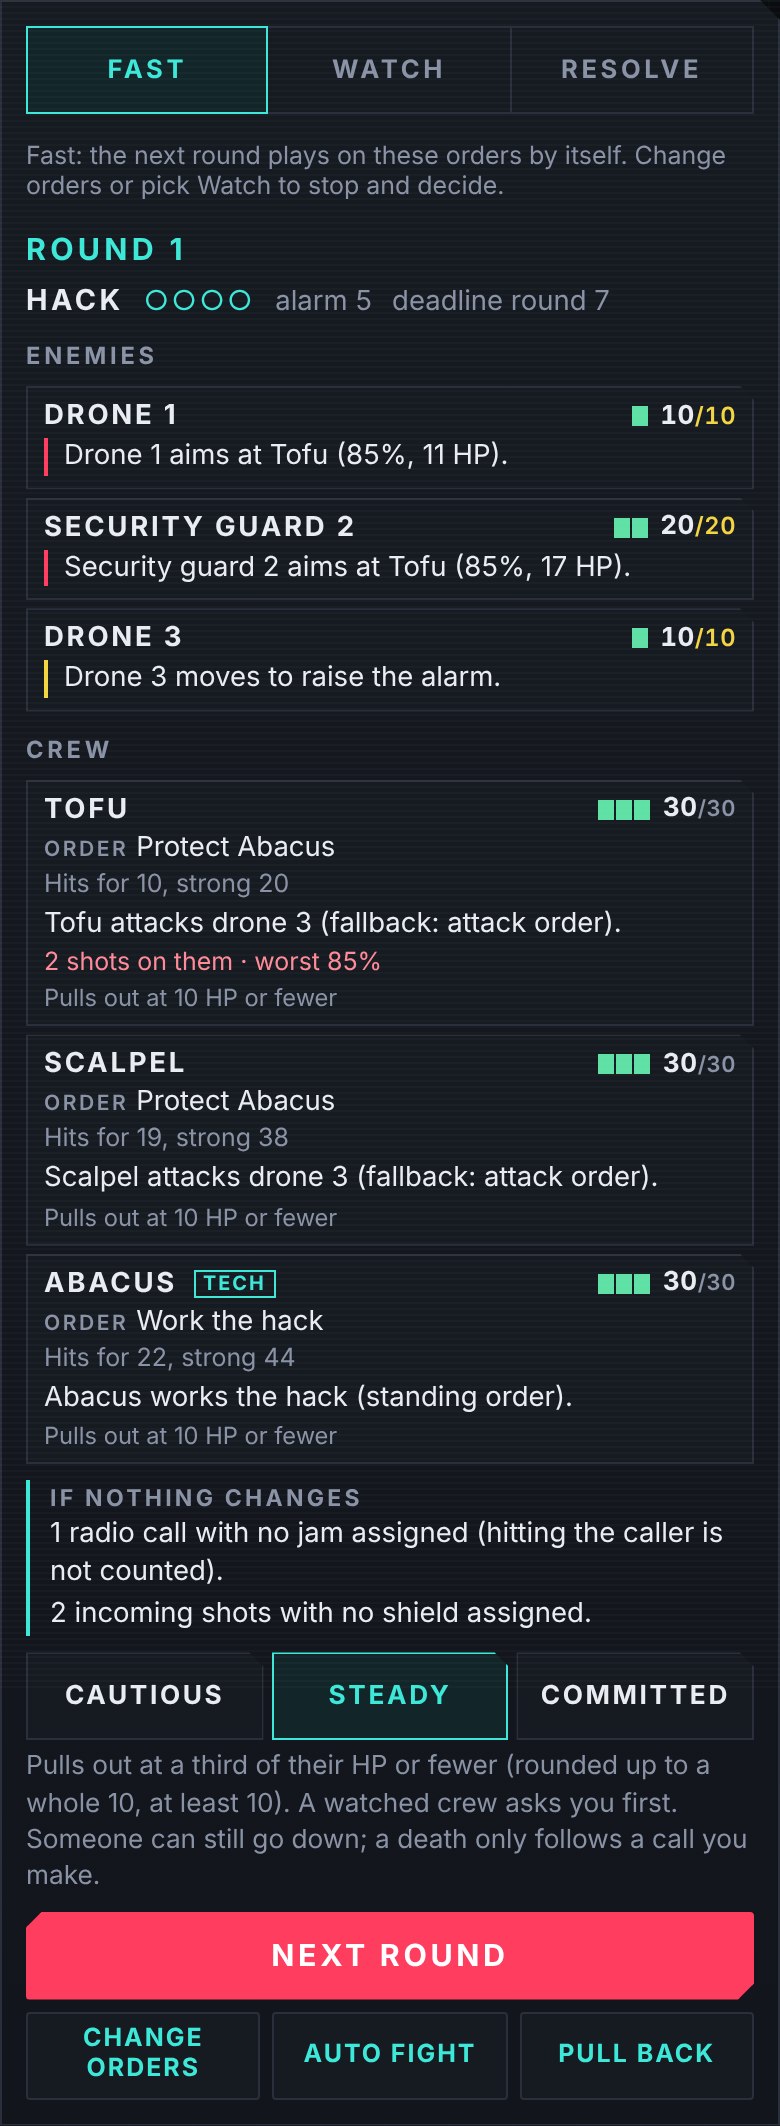
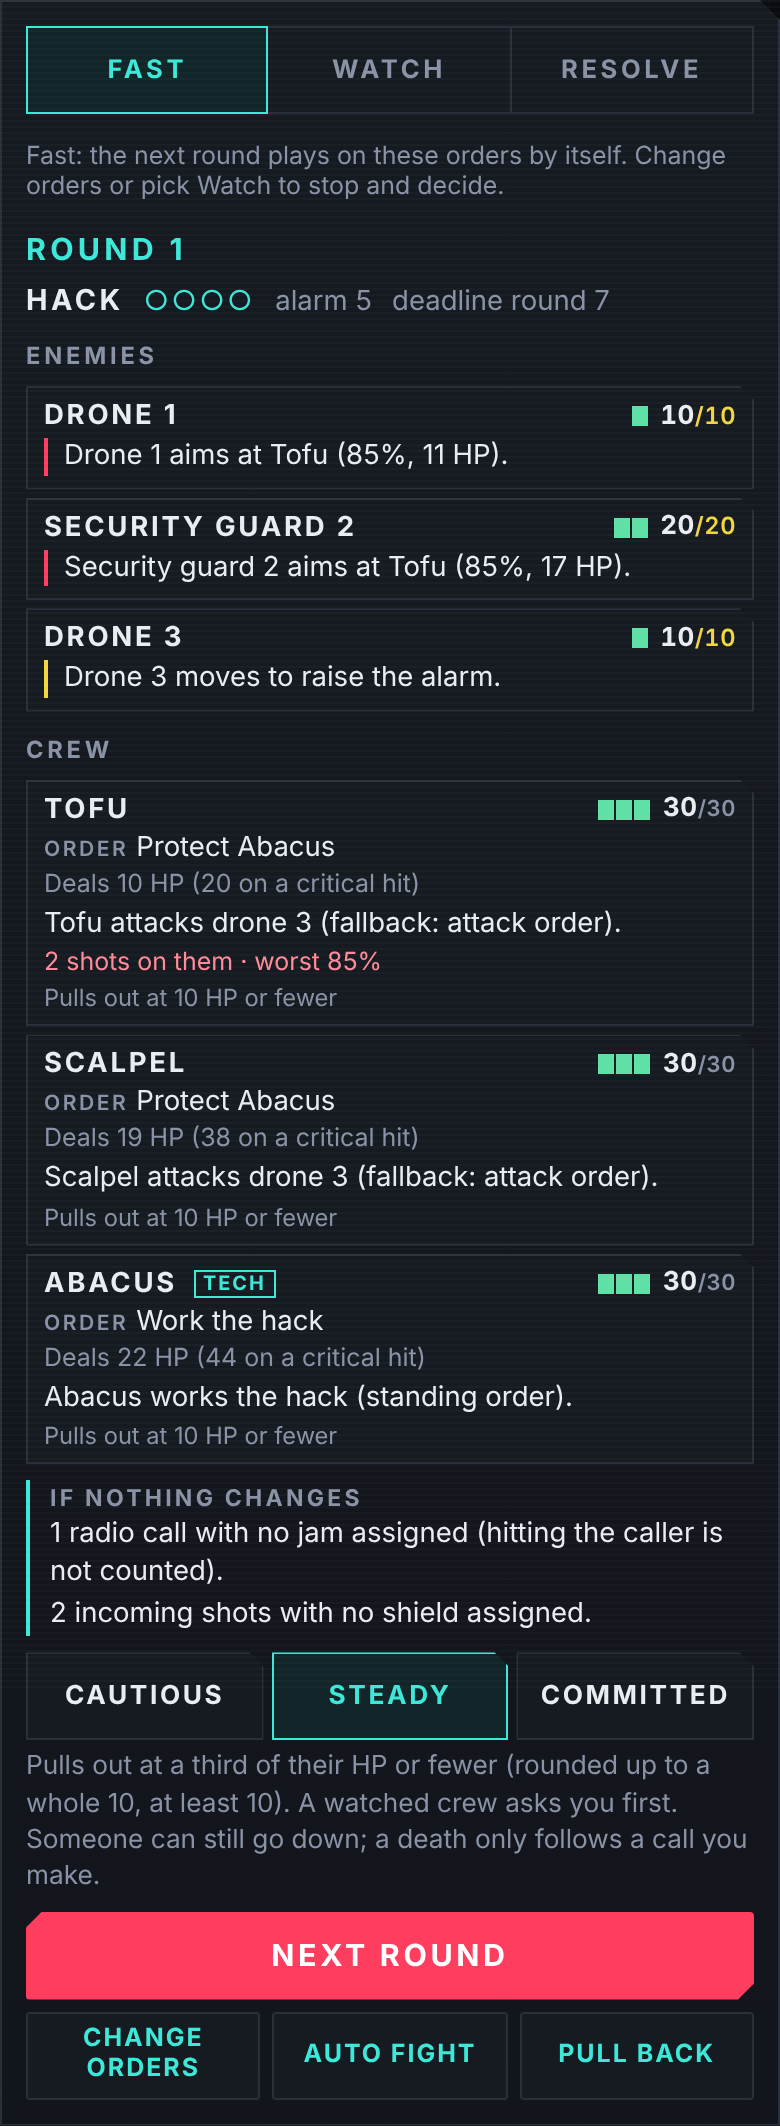
Retake the fight screenshot with the new wording; handoff for armour soak (step 2)

diff --git a/HANDOFF.md b/HANDOFF.md
@@ -16,7 +16,7 @@ The agreed order (owner, 2026-11-16): **the save fix (done, #185), then builds, 
 
 1. **No unattended chunk is queued** (the purity pass is merged, #199: `drafts/HANDOFF-purity-pass.md`). **Waiting on the owner (do not decide for them):** the way out's injury cost (the medic's roll is not the limit; options 1 and 2 in the chat of 2026-11-17: any healer counts, or a downed medic is steadied; or lighter injuries), `FIGHT.wayOutShare` (0.5, the agreed default was 1), the Contagion/Vector trade-off (Contagion is now better in a crowd), the planning read's "protect needs a Ricochet carrier" line (left out), the wording drafts (`drafts/writing-tasks.md`, and the visual pass's three stage texts in `data/fightText.js`: `stage.jammed`, `stage.jamFail`, `stage.alarm`), and whether drones count as armoured. **For the playtest's eyes:** the visual pass's effects in a real Contagion or hack fight at Watch speed (its captures were forged; `drafts/HANDOFF-visual-pass.md` top). **If the board feels slow in the playtest:** what is left of the speed pass is at the top of `drafts/HANDOFF-speed-pass.md`; Today is the slowest tab to draw (`drafts/NOTE-render-cost-2026-11-18.md`). Also open: more pieces and recruits arriving with a piece (need wording and balance calls), an "on my call" switch (parked), tune shots that miss too often, move kidnap to Engine 2.
 2. **Reconcile medical, piloting and leadership with the build frame:** drafted (2026-11-18) in `drafts/RECONCILE-medical-piloting-leadership.md`, with six questions for the owner at its end. Superseded in part by `drafts/PROPOSAL-runner-shaping.md` (owner, 2026-11-18): all abilities in one menu, gated by stats; step 1, `core/abilities.js`, is built. Owner's calls made 2026-11-18 (nudge, open menu with gates, specialisations as entries, earned traits hidden); still open: milestones, caps, the menu's look.
-2b. **Engine 2 in HP:** step 1 done 2026-11-18 (x10, no behaviour change, save v77; `docs/BATTLES.md` top). Step 2, the HP display, done the same day (numbers beside the bars, floating damage; `docs/screenshots/2026-11-18-hp-display`). Hit variance done the same day (now 15% of the hit, `FIGHT.hitSpreadShare`; owner kept it, 2026-11-18; watch in the playtest whether "hit for 8, left on 2" feels bad). **A weapon sets hit size: built 2026-11-18** (save v78; `drafts/PROPOSAL-gear-hit-size.md`, `docs/BATTLES.md` "Hit size"; a spare sidearm instead of scrap a quarter of the time nothing drops). **Enemy toughness step 1 built 2026-11-18** (save v79: +5 HP at threat 4 and at threat 5 (was +10 at 5; halved 2026-11-19); `drafts/PROPOSAL-enemy-toughness.md`, `docs/BATTLES.md` "Enemy toughness"); **next in it: step 2, runner armour as a flat soak (about 3 HP a point), its own sim pair, then enemy shot growth only if needed. Also from `drafts/HANDOFF-enemy-toughness.md`** (part A, the enemy toughness proposal, on Opus; part B, show the hit on the weapon card and fight screen, on Sonnet; both need the owner's answers or wording), then the build vocabulary's generic trigger step (`drafts/PROPOSAL-build-vocabulary.md`).
+2b. **Engine 2 in HP:** step 1 done 2026-11-18 (x10, no behaviour change, save v77; `docs/BATTLES.md` top). Step 2, the HP display, done the same day (numbers beside the bars, floating damage; `docs/screenshots/2026-11-18-hp-display`). Hit variance done the same day (now 15% of the hit, `FIGHT.hitSpreadShare`; owner kept it, 2026-11-18; watch in the playtest whether "hit for 8, left on 2" feels bad). **A weapon sets hit size: built 2026-11-18** (save v78; `drafts/PROPOSAL-gear-hit-size.md`, `docs/BATTLES.md` "Hit size"; a spare sidearm instead of scrap a quarter of the time nothing drops). **Enemy toughness step 1 built 2026-11-18** (save v79: +5 HP at threat 4 and at threat 5 (was +10 at 5; halved 2026-11-19); `drafts/PROPOSAL-enemy-toughness.md`, `docs/BATTLES.md` "Enemy toughness"); **next in it: step 2, runner armour as a flat soak (about 3 HP a point), its own sim pair, then enemy shot growth only if needed: `drafts/HANDOFF-armour-soak.md`. Also from `drafts/HANDOFF-enemy-toughness.md`** (part A, the enemy toughness proposal, on Opus; part B, show the hit on the weapon card and fight screen, on Sonnet; both need the owner's answers or wording), then the build vocabulary's generic trigger step (`drafts/PROPOSAL-build-vocabulary.md`).
 3. **The playtest** after 3-ii-a (`drafts/PLAN-battle-slices.md` "After the slices"), on the fight the owner wants.
 4. **Parked until then:** the other tongs' E4 (`drafts/PROPOSAL-tong-depth.md`), battle slice 4 (left behind, rescue, ransom), the iOS wrapper (`PLAN-IOS.md`; review findings 2-4) and the rest of `drafts/REVIEW-2026-11-13.md`, the locked districts, everything under "Parked" in the archive.
 5. **Owner's writing, any time:** the save banner's "Not saved yet" line (Claude's draft); `drafts/writing-tasks.md`; battle items in `drafts/OWNER-ITEMS-battle.md`; hall part names in `drafts/BRIEF-hall-compounds.md`.

diff --git a/drafts/HANDOFF-armour-soak.md b/drafts/HANDOFF-armour-soak.md
@@ -1,0 +1,21 @@
+# Handoff: enemy toughness step 2, runner armour as a flat soak
+
+Written 2026-11-19, after enemy toughness step 1 (save v79) and the hit display. Read `CLAUDE.md`, then `HANDOFF.md`, then `drafts/PROPOSAL-enemy-toughness.md` (part 3 and Q4), then this. **Best on Opus:** it is a rule change that has to be tuned against the death rule with sims; a Sonnet session can do the mechanical build once the numbers below are settled, but should not pick them.
+
+## What is true now
+- `core/fight.js absorbOf` turns armour value into plates, at most 2 (`FIGHT.absorb`, `data/fights.js`), and each plate stops one enemy shot whole (the shot resolution in `playRound`, near `v.absorb -= 1`). A vest runs 1-3, so value 3 is wasted; the weave's "Takes 1 off every hit" is only true in engine 1.
+- Enemy shots are `ENEMY_HIT` (10 or 20) plus a draw of `spread`. Enemies have +5 HP at threat 4 and 5 (`TOUGHNESS_BY_THREAT`); enemy shots have not grown.
+- Owner's answers (2026-11-18, all recommended): **4(a) the soak is 3 HP per armour point**, min 1 through; one side at a time, so this step changes armour only; enemy shot growth (part 4) only if this proves too strong at threat 5; steps 2 and 3 get their own sim pairs.
+- `scripts/sim-enemy-toughness.mjs` (with `HPMULT`, `PLATES`, `EHIT`) measures a crew at damage 2/4/6 with 1 or 2 plates; it must learn a soak setting. The gate sims still do not equip found gear.
+- Open, from the step-1 sim: **the_last_collection is over the 15% left-behind target (18% steady, committed deaths 7.5%)**; threat 4's +5 HP did it, not threat 5 (`docs/sims/enemy-toughness-2026-11-19-half.md`). Ask the owner whether to pull threat 4 back before or after this step.
+
+## The build
+1. Armour value to a flat soak: each point takes `FIGHT.soakPerArmour` (3) off every landing enemy shot, at least 1 through, replacing the plates (`runnerOf`'s `absorb`; a runner carries `soak`; piercing is the enemy side, none exists yet). The drone's own `droneAbsorb` is an enemy's plate, untouched.
+2. Show it: the gear text says "Takes 1 off every hit" for the weave; make it say the HP ("takes 3 off every hit", wording is the owner's: draft in `drafts/writing-tasks.md`), and the armoury card likewise.
+3. `oddsKey` gets `r.soak`. Save v80: a fight in progress keeps its plates (`soak` 0, `absorb` as it stands) so a saved fight plays under the old rule.
+4. Tests: a value-3 vest takes 9 off a 10 shot (1 through), a 20 shot loses 9; soak never takes a hit below 1; cautious and steady still lose nobody without a call-in; an unarmoured runner is as before.
+5. Sims before and after into `docs/sims/`: the equip sim (add a soak setting), `sim-gate-teams`, `sim-standard-force`, `sim-vectors`, `sim-wayout`. Watch: against 10 HP shots a vest 3 stops 9 of 10: that is the proposal's warning; if threat 1-3 become untouchable for an armoured crew, say so and propose the enemy shot growth (part 4) rather than weakening the soak.
+6. `docs/BATTLES.md`, design-log row, changelog, CODEMAP, HANDOFF, screenshots if the armour text shows.
+
+## Rules that must hold
+No death on cautious or steady without a call-in; shown risk equals used risk; the early game (threat 1-2, unarmed crews) must not move.

diff --git a/docs/screenshots/README.md b/docs/screenshots/README.md
@@ -22,7 +22,7 @@ Then add a row to the top of the table below and commit the folder with the chan
 
 | Date | Version | Commit | What's new on screen | Folder |
 | --- | --- | --- | --- | --- |
-| 2026-11-18 | Show the hit | (this change) | The standard set, plus `47-fight-round-hit.png` (the fight's round screen, which the script can't reach: drawn from a real fight with runners at hit 10, 19 and 22). New on screen: each runner on the round screen has a line "Hits for 16, strong 32"; a sidearm's card reads "... damage 4 · hits for 16, strong 32 · ..." (armoury, gear sheet, operative gear). | `2026-11-18-hit-display` |
+| 2026-11-18 | Show the hit | (this change) | The standard set, plus `47-fight-round-hit.png` (the fight's round screen, which the script can't reach: drawn from a real fight with runners at hit 10, 19 and 22). New on screen: each runner on the round screen has a line "Deals 16 HP (32 on a critical hit)"; a sidearm's card reads "... damage 4 · deals 16 HP (32 on a critical hit) · ..." (armoury, gear sheet, operative gear). | `2026-11-18-hit-display` |
 | 2026-11-18 | Roster filter menu | (this change) | The standard set, plus two new shots at the end. New on screen: the Crew panel's outline is back to the plain look (`18-crew.png`); the roster filter is a red button that opens our own menu: under the button on desktop (`47-desktop-crew-filter.png`), a sheet from the bottom on phones (`48-crew-filter-sheet.png`). | `2026-11-18-crew-filter-menu` |
 | 2026-11-18 | Red edge on Crew (trial) | (this change) | The standard set. New on screen: the Crew panel has a toned red outline and the roster filter dropdown is red (`18-crew.png`); other screens unchanged. | `2026-11-18-crew-red-edge` |
 | 2026-11-18 | Crew colour mockups | (not shipped) | Design-session capture (`scripts/preview-crew-colours.mjs`, 1x desktop crops): five colour options for the roster's filter dropdown and the panel outline over the current look: cyan, red, amber, violet, and a split red/cyan edge with a solid cyan dropdown. Owner picks one. | `2026-11-18-crew-colour-mockups` |
